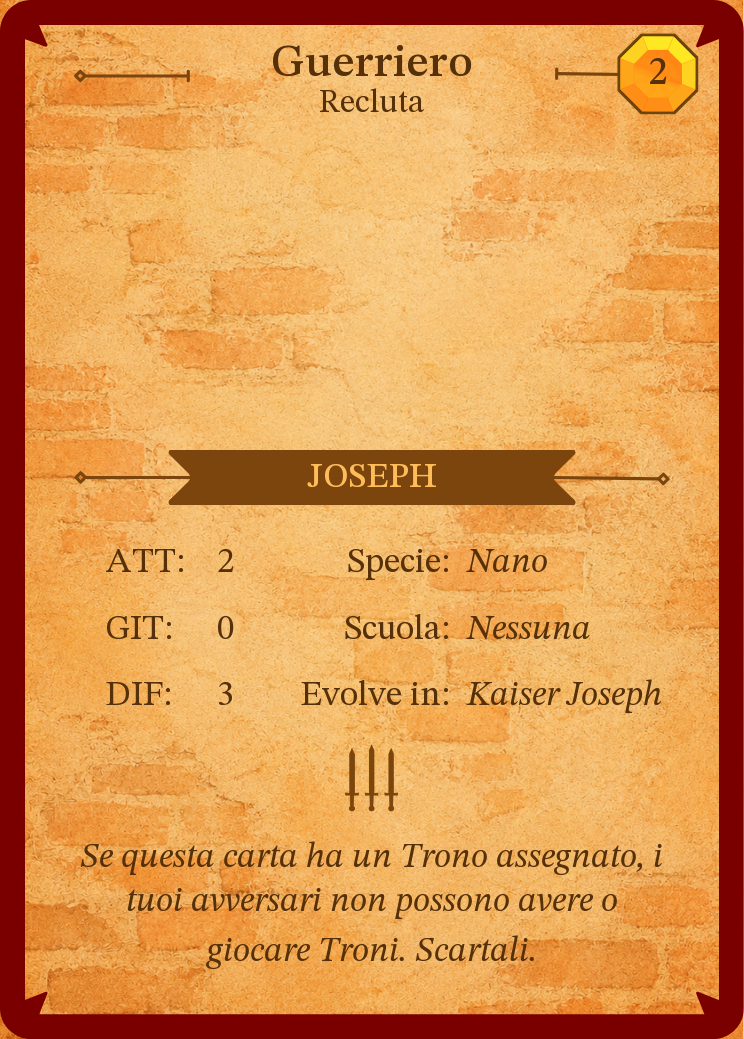
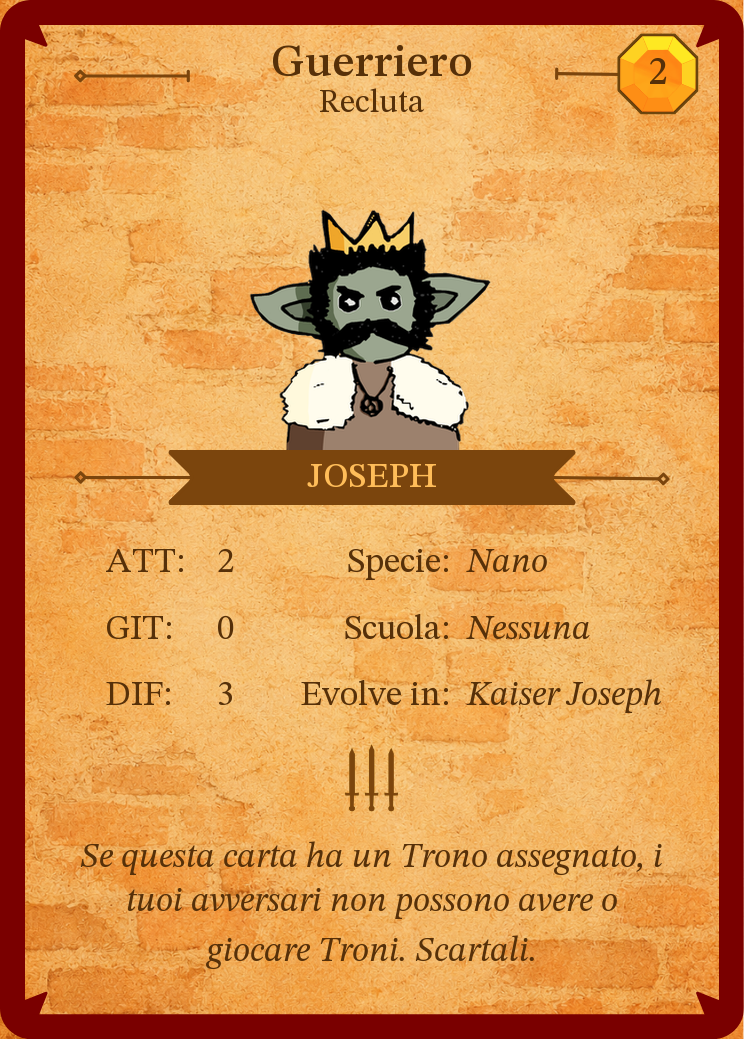
Added dwarf recruits

Changed region(s): [[0.3401, 0.1848, 0.6492, 0.4312]]

diff --git a/card_factory/1_resize_input.py b/card_factory/1_resize_input.py
@@ -81,30 +81,54 @@ def is_hero_card(card_id: str) -> bool:
 
 
 def process_image(png_path: Path) -> None:
-    """Adatta l'illustrazione alla larghezza target e porta l'altezza al canvas
-    standard aggiungendo trasparenza sopra (o ritagliando l'eccesso dall'alto)."""
+    """Adatta l'illustrazione al canvas standard mantenendo le proporzioni
+    (nessuna distorsione): sceglie se adattare alla larghezza o all'altezza
+    del canvas confrontando l'aspect ratio dell'immagine con quello del
+    canvas target, in modo che un'illustrazione più "quadrata"/verticale di
+    una carta Recluta (canvas largo) venga adattata all'altezza e centrata
+    orizzontalmente con bande trasparenti a destra e sinistra (come
+    patrizio.png), invece di essere stirata a piena larghezza e poi
+    tagliata pesantemente in verticale. Ancoraggio verticale in basso."""
     target_h = IMG_HERO_HEIGHT if is_hero_card(png_path.stem) else IMG_STANDARD_HEIGHT
+    canvas_aspect = IMG_TARGET_WIDTH / target_h
 
     img = Image.open(png_path).convert("RGBA")
-    scale = IMG_TARGET_WIDTH / img.width
-    fitted_h = int(round(img.height * scale))
-    fitted = img.resize((IMG_TARGET_WIDTH, fitted_h), Image.LANCZOS)
+    img_aspect = img.width / img.height
 
     canvas = Image.new("RGBA", (IMG_TARGET_WIDTH, target_h), (0, 0, 0, 0))
-    if fitted_h <= target_h:
-        canvas.paste(fitted, (0, target_h - fitted_h), fitted)
-        note = f"+{target_h - fitted_h}px trasparenti sopra"
+
+    if img_aspect >= canvas_aspect:
+        # Immagine relativamente più larga del canvas -> adatta alla larghezza.
+        scale = IMG_TARGET_WIDTH / img.width
+        fitted_h = int(round(img.height * scale))
+        fitted = img.resize((IMG_TARGET_WIDTH, fitted_h), Image.LANCZOS)
+
+        if fitted_h <= target_h:
+            canvas.paste(fitted, (0, target_h - fitted_h), fitted)
+            note = f"+{target_h - fitted_h}px trasparenti sopra"
+        else:
+            crop_top = fitted_h - target_h
+            fitted = fitted.crop((0, crop_top, IMG_TARGET_WIDTH, fitted_h))
+            canvas.paste(fitted, (0, 0), fitted)
+            note = f"ritagliati {crop_top}px in alto"
+        fit_kind = "larghezza"
     else:
-        crop_top = fitted_h - target_h
-        fitted = fitted.crop((0, crop_top, IMG_TARGET_WIDTH, fitted_h))
-        canvas.paste(fitted, (0, 0), fitted)
-        note = f"ritagliati {crop_top}px in alto"
+        # Immagine relativamente più stretta/verticale del canvas -> adatta
+        # all'altezza e centra orizzontalmente (bande trasparenti sui lati).
+        scale = target_h / img.height
+        fitted_w = int(round(img.width * scale))
+        fitted = img.resize((fitted_w, target_h), Image.LANCZOS)
+
+        x_off = (IMG_TARGET_WIDTH - fitted_w) // 2
+        canvas.paste(fitted, (x_off, 0), fitted)
+        note = f"bande trasparenti laterali {x_off}px/{IMG_TARGET_WIDTH - fitted_w - x_off}px"
+        fit_kind = "altezza"
 
     canvas.save(png_path, format="PNG")
     kind = "eroe" if target_h == IMG_HERO_HEIGHT else "standard"
     print(
-        f"{png_path.name}: {img.size} -> larghezza {IMG_TARGET_WIDTH} "
-        f"({fitted_h}px risultanti, {note}) -> canvas {kind} {IMG_TARGET_WIDTH}x{target_h}"
+        f"{png_path.name}: {img.size} -> adattata per {fit_kind} "
+        f"-> canvas {kind} {IMG_TARGET_WIDTH}x{target_h} ({note})"
     )
 
 

diff --git a/card_factory/3_generate_cards.py b/card_factory/3_generate_cards.py
@@ -4,10 +4,13 @@ generate_cards.py
 Genera carte Barbacane dal template PDF + JSON dati + PNG illustrazioni.
 
 Utilizzo:
-    python generate_cards.py
+    python generate_cards.py               # tutte le carte
+    python generate_cards.py faust joseph   # solo le carte indicate
 """
 
+import argparse
 import json
+import sys
 import textwrap
 from pathlib import Path
 
@@ -433,10 +436,28 @@ OUT_DIR       = Path("output")
 
 
 def main():
+    parser = argparse.ArgumentParser(
+        description="Genera carte Barbacane dal template PDF + JSON dati + PNG illustrazioni."
+    )
+    parser.add_argument(
+        "ids",
+        nargs="*",
+        help="Id delle carte da generare (es. faust joseph reinhold). "
+             "Se omesso, genera tutte le carte del JSON.",
+    )
+    args = parser.parse_args()
+
     OUT_DIR.mkdir(parents=True, exist_ok=True)
 
     fonts = load_fonts(FONTS_DIR)
     all_cards, id_to_name = load_cards(CARDS_JSON)
+
+    if args.ids:
+        wanted = set(args.ids)
+        all_cards = [c for c in all_cards if c.get("id") in wanted]
+        missing = wanted - {c.get("id") for c in all_cards}
+        if missing:
+            print(f"Attenzione: id non trovati nel JSON: {', '.join(sorted(missing))}", file=sys.stderr)
 
     out_dir       = OUT_DIR
     templates_dir = TEMPLATES_DIR
